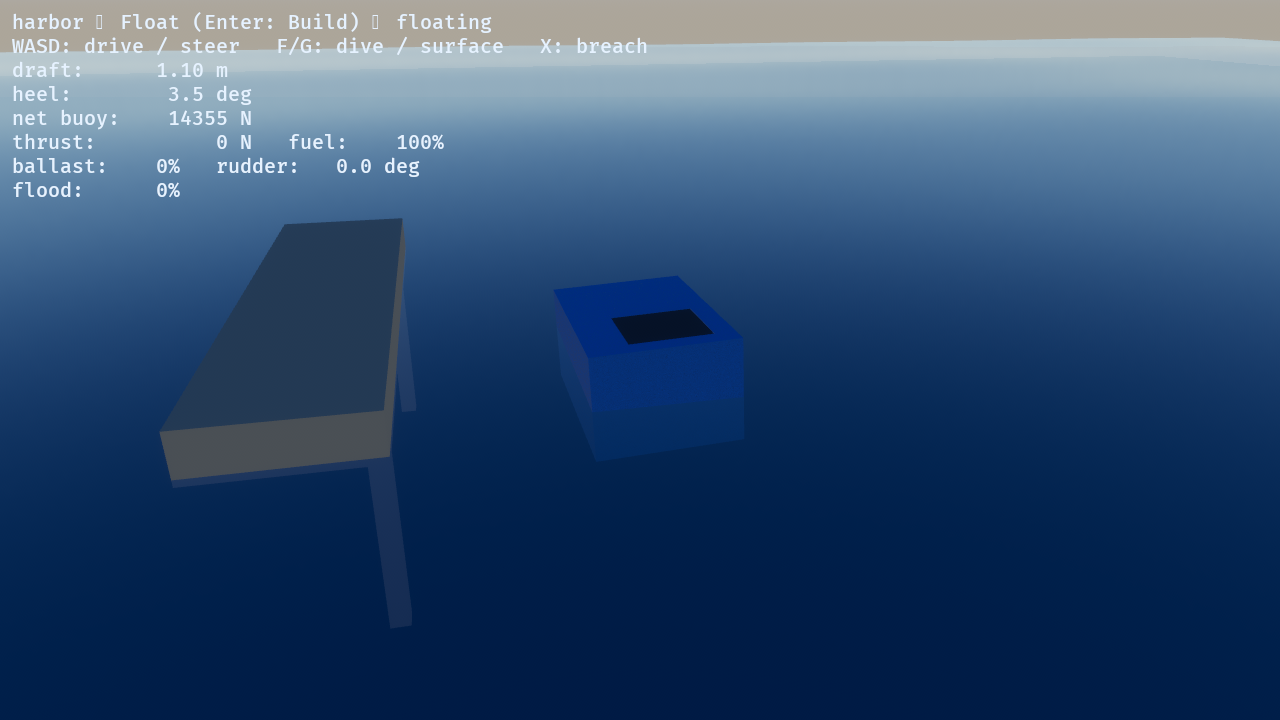
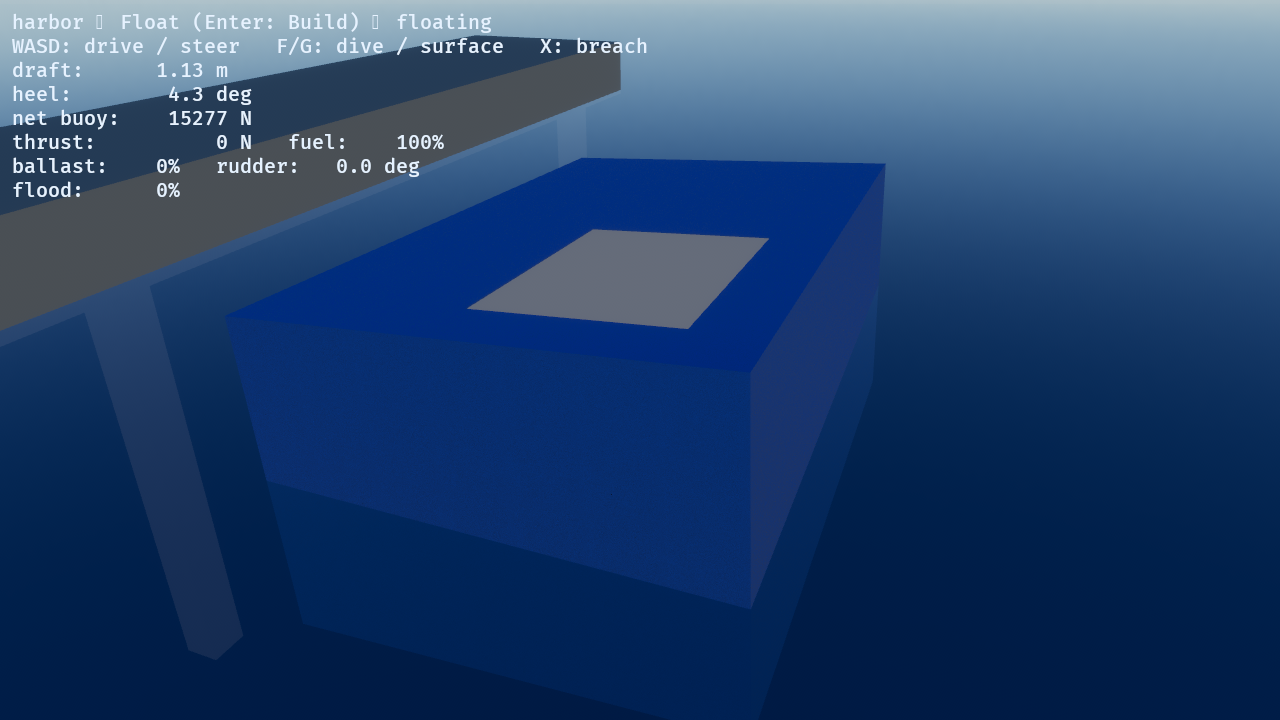
WI 734: open-boat interior - reveal a recess to the waterline (no shader)
Dave: "still can't see through it" - the open-cavity occluder was a solid
grey lid flush with the hatch. Scoping found the hull interior is already
rendered (greedy meshing meshes faces against empty neighbours); the only
thing blocking the view is the infinite sea-level water plane, which
shows through any opening. Seeing all the way to the dry sub-waterline
floor needs a custom per-pixel water-mask shader (net-new infra); Dave
chose the low-risk waterline reveal first.

The open hold's dry occluder now caps at OPEN_HOLD_FILL=0.72 of its
height (bottom-up) instead of filling flush to the rim, so you see down
into a recess to the emissive grey surface. The surface sits above the
floating waterline, so it still hides the water plane. Sealed
compartments and ballast tanks fill fully (closed interiors); the
swamp-water cuboid is unchanged.

Render-only; harbor tests 16/16, clippy clean.

diff --git a/crates/app/src/harbor_scene.rs b/crates/app/src/harbor_scene.rs
@@ -205,6 +205,12 @@ struct InteriorWater(usize);
 /// Flood relaxation rate (1/s) — a several-second flood once breached (WI 520 `step` constant).
 const FLOOD_RATE: f64 = 0.15;
 
+/// How much of an **open** boat's interior the dry-hold occluder fills, bottom-up (WI 734). The cap sits
+/// just above the typical floating waterline so it still hides the sea-level water plane, while the top is
+/// left open so you can see down into the real hollow interior (a recess, not a flush grey lid). Sealed
+/// compartments and ballast tanks fill fully — their interiors are genuinely closed.
+const OPEN_HOLD_FILL: f32 = 0.72;
+
 /// The cells of a compartment that still hold **air** at a given flooded fraction (WI 718): water fills
 /// **bottom-up**, so the lowest `fraction · n` cells have flooded (lost their air) and the upper ones
 /// remain. `cells` must be sorted by height ascending. The hull's enclosed-buoyancy set is rebuilt from
@@ -669,14 +675,28 @@ fn enter_float(
                 let size = region.max - region.min;
                 let centre = 0.5 * (region.min + region.max);
                 let eps = 0.02;
+                // WI 734: an OPEN hold is capped just above the floating waterline (`OPEN_HOLD_FILL`) — it
+                // still hides the sea-level water plane, but the top is left open so you see **down into**
+                // the real hollow interior (a recess, not a flush lid). Sealed compartments + ballast tanks
+                // fill fully (their interiors are genuinely closed).
+                let fill = if matches!(region.source, WaterSource::Open) {
+                    OPEN_HOLD_FILL
+                } else {
+                    1.0
+                };
+                let occ_h = (size.y * fill - eps).max(0.01);
                 parent.spawn((
                     Mesh3d(meshes.add(Mesh::from(Cuboid::new(
                         (size.x - eps).max(0.01),
-                        (size.y - eps).max(0.01),
+                        occ_h,
                         (size.z - eps).max(0.01),
                     )))),
                     MeshMaterial3d(dry_fill_mat.clone()),
-                    Transform::from_translation(centre),
+                    Transform::from_translation(Vec3::new(
+                        centre.x,
+                        region.min.y + 0.5 * size.y * fill,
+                        centre.z,
+                    )),
                 ));
                 parent.spawn((
                     Mesh3d(unit_cube.clone()),